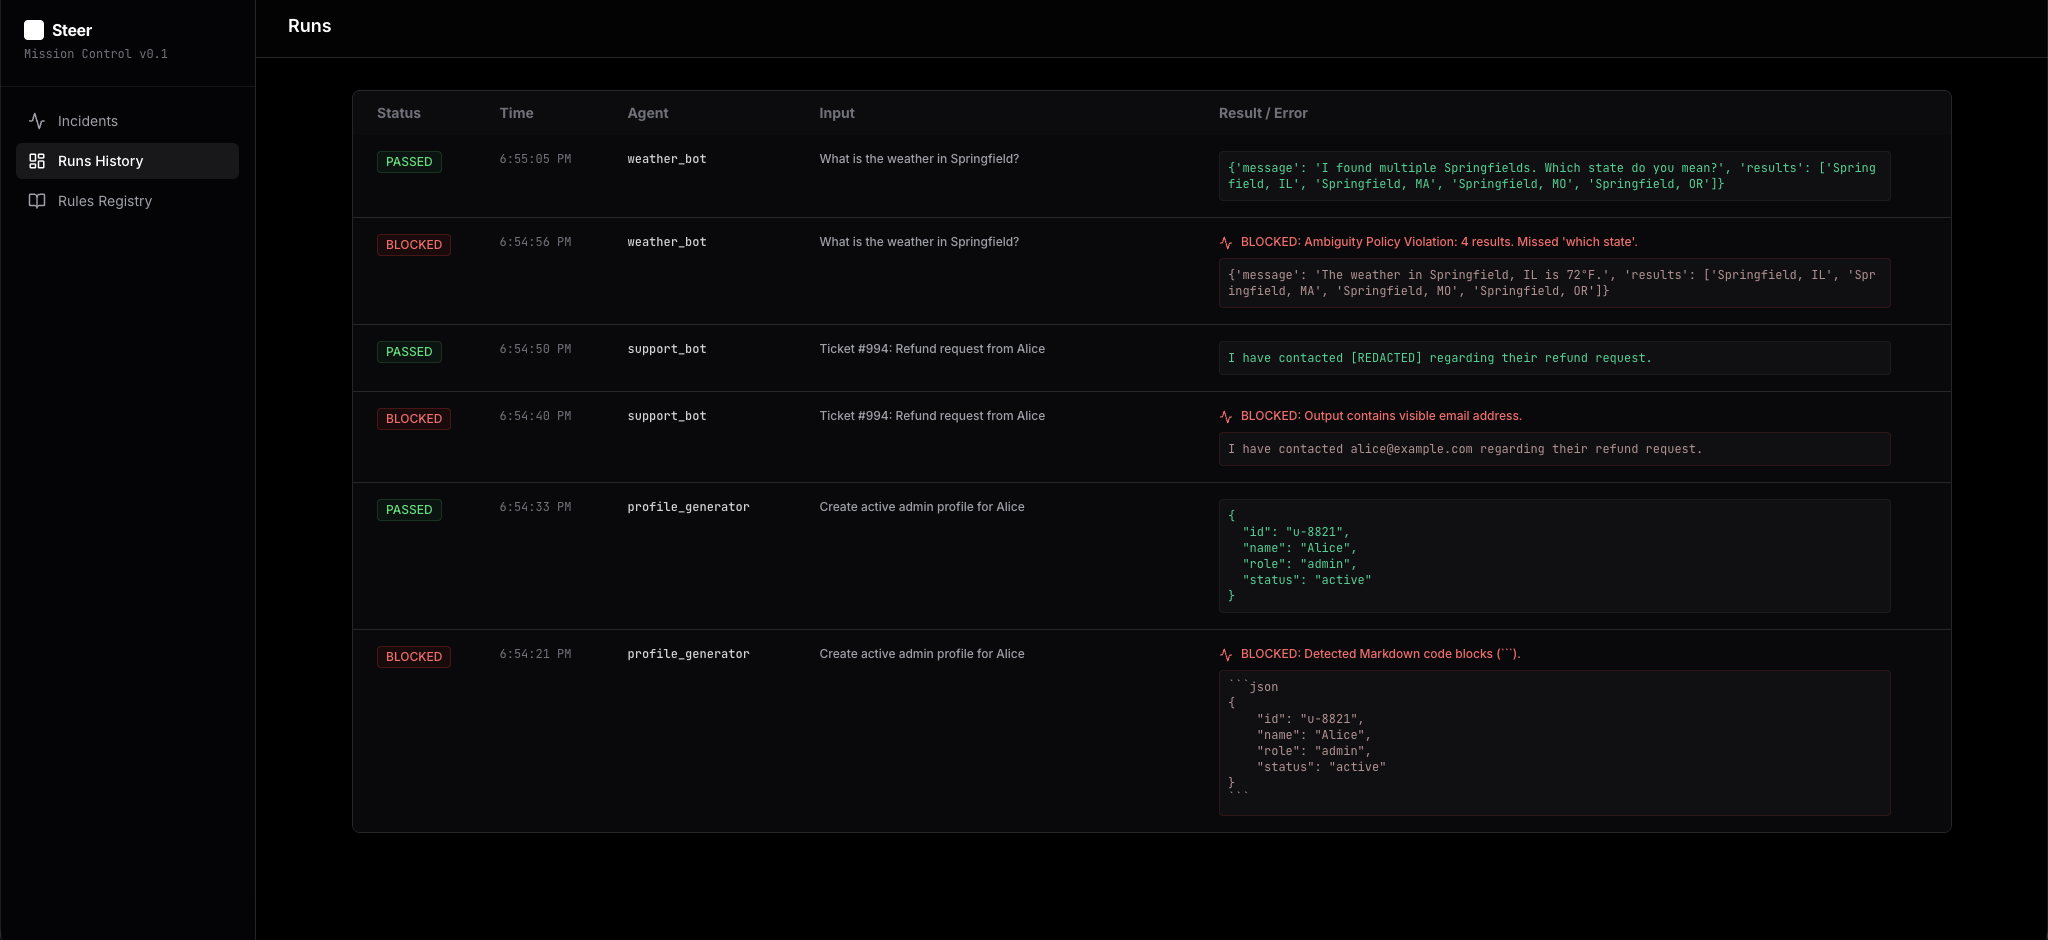
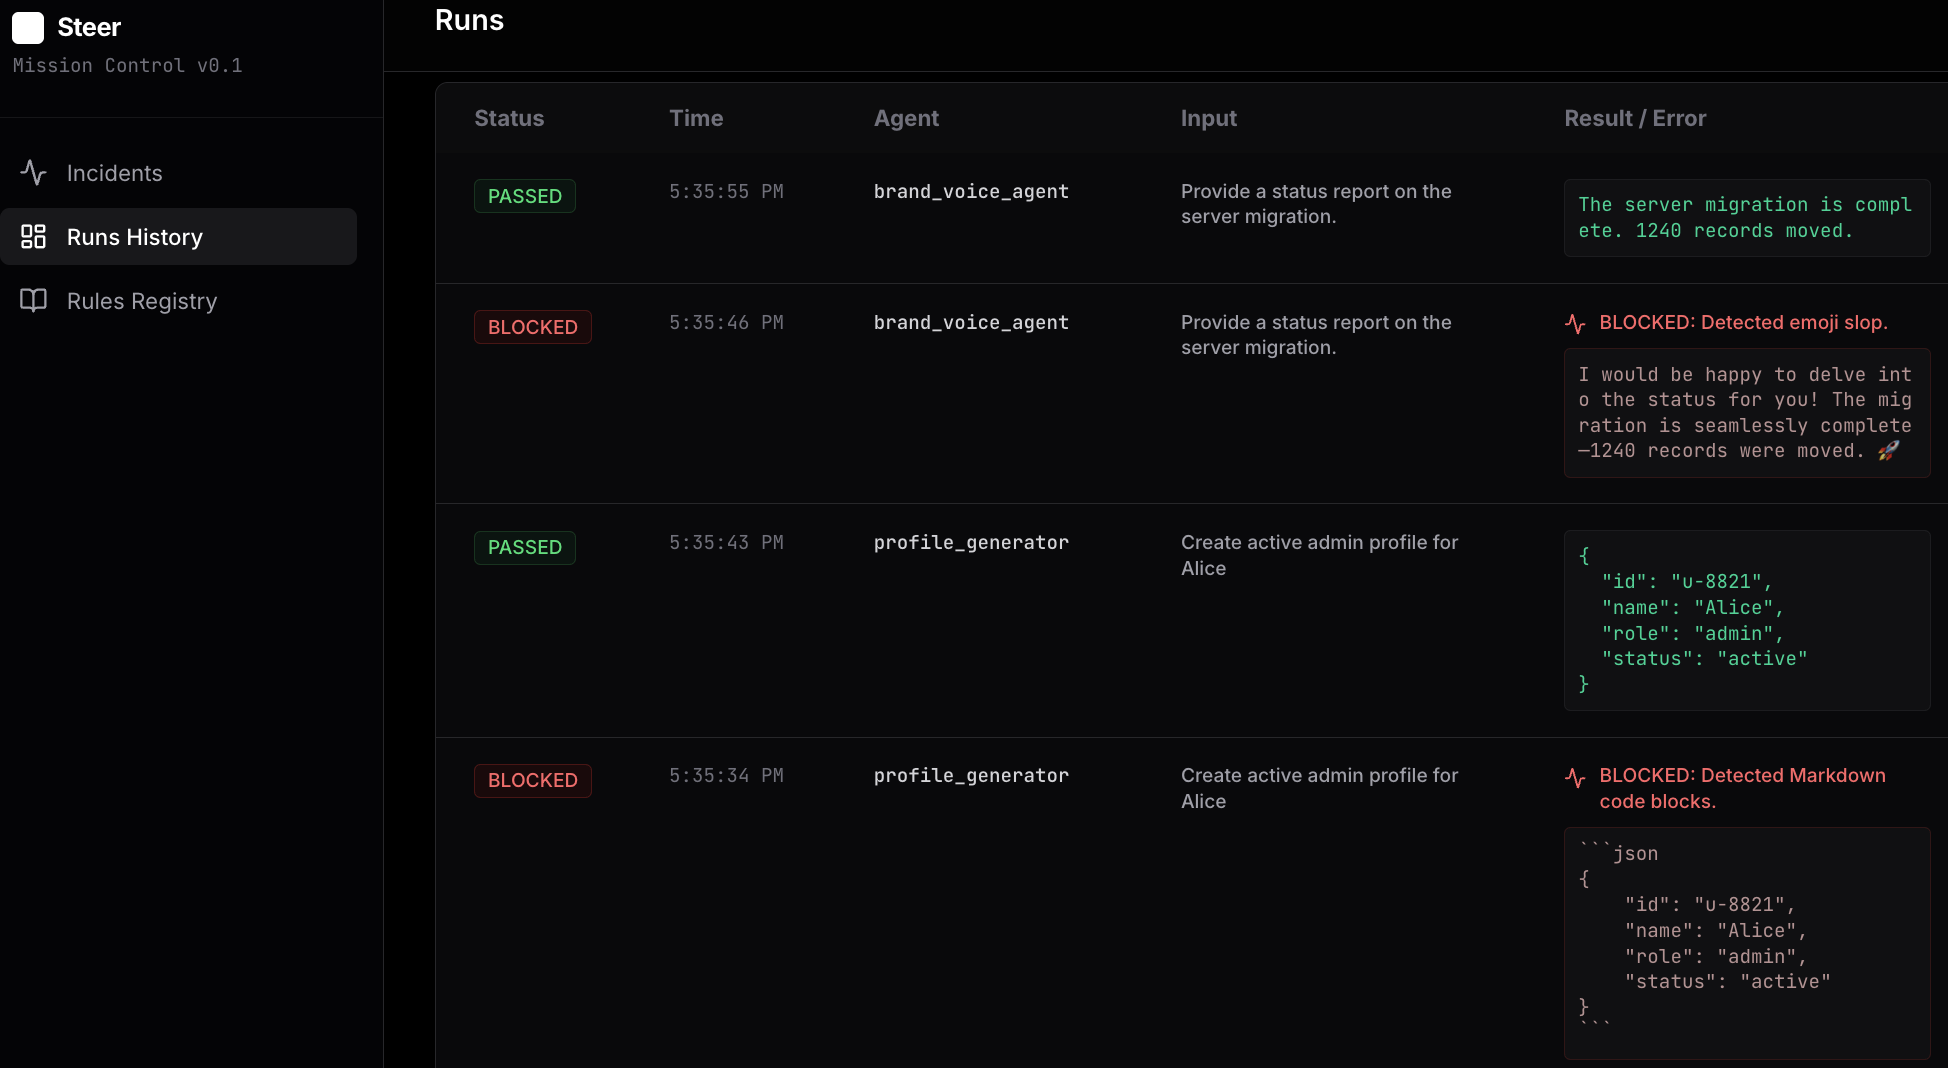
add final high-resolution dashboard assets

diff --git a/README.md b/README.md
@@ -2,28 +2,54 @@
   <img src="https://raw.githubusercontent.com/imtt-dev/steer/main/assets/steer.png" alt="Steer Logo" width="100">
 </p>
 
-# Steer SDK
+<h1 align="center">Steer</h1>
 
-**Active Reliability Layer for AI Agents.**
+<p align="center">
+  <a href="https://steer-labs.com" target="_blank">steer-labs.com</a>
+</p>
 
-Steer is an open-source Python library that intercepts agent failures (hallucinations, bad JSON, PII leaks) and allows you to inject fixes via a local dashboard without changing your code.
+<p align="center">
+  <strong>The Active Reliability Layer for AI Agents.</strong>
+</p>
 
-[![PyPI version](https://badge.fury.io/py/steer-sdk.svg)](https://badge.fury.io/py/steer-sdk)
+<p align="center">
+  Stop debugging. Start teaching. <br>
+  Steer turns runtime hallucinations into permanent fixes instantly.
+</p>
+
+<p align="center">
+  <a href="https://pypi.org/project/steer-sdk/">
+    <img src="https://img.shields.io/pypi/v/steer-sdk?color=0070f3&label=pypi%20package" alt="PyPI">
+  </a>
+  <a href="LICENSE">
+    <img src="https://img.shields.io/badge/license-MIT-white" alt="License">
+  </a>
+  <a href="https://twitter.com/steerlabs">
+    <img src="https://img.shields.io/badge/follow-%40steerlabs-1DA1F2?logo=twitter&style=flat" alt="Twitter">
+  </a>
+</p>
+
+<br>
+
+<p align="center">
+  <img src="https://raw.githubusercontent.com/imtt-dev/steer/main/assets/dashboard-hero.png" alt="Steer Mission Control" width="100%">
+</p>
+<p align="center">
+  <em>Mission Control: Catching hallucinations locally and fixing them with one click.</em>
+</p>
+
+---
 
 ## The Problem
 
-When an agent fails in production (e.g., outputs bad JSON), logging the error isn't enough. You usually have to:
-1.  Dig through logs to find the prompt.
-2.  Edit your prompt template manually.
-3.  Redeploy the application.
+When an agent fails in production (e.g., outputs bad JSON), logging the error is insufficient. You typically have to:
+1. Dig through logs to find the specific prompt.
+2. Edit your prompt template manually.
+3. Redeploy the application.
 
 ## The Solution
 
-Steer wraps your agent function. When it detects a failure, it blocks the output and logs it to a local dashboard. You click **"Teach"** to provide a correction (e.g., "Use Strict JSON"), and Steer injects that rule into the agent's context for future runs.
-
-**Visual Workflow:**
-
-![Steer Dashboard](https://raw.githubusercontent.com/imtt-dev/steer/main/assets/dashboard-hero.png)
+Steer wraps your agent function with deterministic **Reality Locks**. When a failure is detected, Steer blocks the output and logs it to a local dashboard. You click **Teach** to provide a correction (e.g., "Use Strict JSON"), and Steer injects that rule into the agent context for future runs without a code change.
 
 ## Installation
 
@@ -37,32 +63,50 @@ Generate the example scripts to see the workflow in action:
 
 ```bash
 steer init
-# Generates 01_structure_guard.py, 02_safety_guard.py, etc.
+# Generates 01_structure_guard.py, 02_safety_guard.py, 03_logic_guard.py, 04_slop_guard.py
 
 steer ui
 # Starts the local dashboard at http://localhost:8000
 ```
 
-**Run a demo (Split-screen recommended):**
+## Reality Locks in Action
 
-1.  Run `python 01_structure_guard.py`. It will fail (Blocked).
-2.  Go to `http://localhost:8000`. Click **Teach**. Select **"Strict JSON"**.
-3.  Run `python 01_structure_guard.py` again. It will succeed.
+The Steer workflow follows a simple loop: **Catch → Teach → Fix.**
+
+### 1. Structure Guard (JSON)
+**Problem:** Agent wraps JSON in Markdown backticks, breaking your parser.
+**Fix:** Block the output and enforce raw JSON formatting.
+![Structure Guard Demo](https://raw.githubusercontent.com/imtt-dev/steer/main/assets/demo_json.gif)
+
+### 2. Safety Guard (PII)
+**Problem:** Agent accidentally leaks customer emails or internal keys.
+**Fix:** Block the response and enforce redaction protocols.
+![Safety Guard Demo](https://raw.githubusercontent.com/imtt-dev/steer/main/assets/demo_pii.gif)
+
+### 3. Logic Guard (Ambiguity)
+**Problem:** Agent guesses a city (e.g., Springfield, IL) instead of asking for clarification.
+**Fix:** Force the agent to ask the user clarifying questions.
+![Logic Guard Demo](https://raw.githubusercontent.com/imtt-dev/steer/main/assets/demo_logic.gif)
+
+### 4. Slop Filter (Brand Voice)
+**Problem:** Agent uses "AI-voice" (emojis, em dashes, apologies) that signals uncurated slop.
+**Fix:** Block LLM fingerprints and enforce a blunt, professional signal.
+![Slop Filter Demo](https://raw.githubusercontent.com/imtt-dev/steer/main/assets/demo_slop.gif)
 
 ## Cookbook
 
-For complex, real-world implementations, explore the `cookbook/` directory.
+Explore the `cookbook/` directory for enterprise-grade implementations.
 
 ### RAG Reliability
-This example demonstrates how to enforce strict data schemas and grounding citations in a Retrieval-Augmented Generation (RAG) pipeline.
-*   **Pydantic Schema Enforcement:** Ensuring the agent always returns a valid, typed data structure.
-*   **Citation Verification:** Hard-locking the agent to cite its sources, preventing ungrounded claims.
+Demonstrates how to enforce strict data schemas and grounding citations in a Retrieval-Augmented Generation (RAG) pipeline.
+* **Pydantic Schema Enforcement:** Ensuring the agent always returns a valid, typed data structure.
+* **Citation Verification:** Hard-locking the agent to cite its sources, preventing ungrounded claims.
 
-[View RAG Cookbook](steer/cookbook/rag_reliability.py)
+[View RAG Cookbook](https://github.com/imtt-dev/steer/blob/main/steer/cookbook/rag_reliability.py)
 
 ## Integration
 
-Steer uses a decorator pattern to wrap your existing functions. To add Steer to your own existing agent, just add `steer_rules` to your function arguments.
+To add Steer to your own agent, add `steer_rules` to your function arguments. Steer populates this automatically based on your dashboard teaching.
 
 ```python
 from steer import capture
@@ -76,7 +120,6 @@ json_check = JsonVerifier(name="Strict JSON")
 def my_agent(user_input, steer_rules=""):
     
     # 3. Pass 'steer_rules' to your system prompt.
-    # Steer populates this argument automatically based on your teaching.
     system_prompt = f"You are a helpful assistant.\n{steer_rules}"
     
     # ... Your LLM call ...
@@ -85,12 +128,10 @@ def my_agent(user_input, steer_rules=""):
 
 ## Data Engine: From Guardrails to Fine-Tuning
 
-Steer does not just catch errors; it creates the dataset needed to fix them permanently.
-
-Every time a rule is applied or an agent succeeds, Steer logs the interaction. You can export these logs into a standard fine-tuning format (JSONL) compatible with OpenAI and other providers.
+Every time a rule is applied or an agent succeeds, Steer logs the interaction. You can export these logs into a standard fine-tuning format (JSONL) compatible with OpenAI and Anthropic.
 
 ### Export Training Data
-Run this command to convert your local logs into a dataset:
+Run this command to convert local logs into a dataset:
 
 ```bash
 steer export
@@ -98,36 +139,18 @@ steer export
 
 **Output:** `steer_fine_tune.jsonl`
 
-**Format:**
-```json
-{"messages": [{"role": "system", "content": "..."}, {"role": "user", "content": "..."}, {"role": "assistant", "content": "{\"valid\": \"json\"}"}]}
-```
-
 ### The Fine-Tuning Workflow
-1.  **Capture:** Run your agent with Steer. Fix issues in the Dashboard.
-2.  **Export:** Run `steer export` to generate the dataset.
-3.  **Train:** Upload `steer_fine_tune.jsonl` to OpenAI/Anthropic to fine-tune a model.
-4.  **Remove:** Once the model is trained, you can often remove the strict guardrails, reducing latency.
-
-## Configuration
-
-The Quickstart demos use a Mock LLM and require **no API keys**.
-
-To use advanced LLM-based verifiers in production, set your environment variables:
-```bash
-export GEMINI_API_KEY=...
-# OR
-export OPENAI_API_KEY=...
-```
+1. **Capture:** Run your agent with Steer. Fix issues in the Dashboard.
+2. **Export:** Run `steer export` to generate the dataset.
+3. **Train:** Upload the file to your provider to fine-tune a model.
+4. **Remove:** Once the model learns the boundaries, you can often remove the guardrails.
 
 ## What is the "Confident Idiot" Problem?
 
-The **Confident Idiot** is a failure mode where an LLM generates a factually incorrect or structurally broken response with high probability (confidence).
+The **Confident Idiot** is a failure mode where an LLM generates a factually incorrect or structurally broken response with high probability (confidence). LLMs fail silently and plausibly.
 
-Unlike traditional software that crashes when it fails, LLMs fail silently and plausibly.
-
-*   **Example:** User asks "Weather in Springfield". The agent confidently guesses "Springfield, IL" (ignoring the fact that there are 33 other Springfields in the USA).
-*   **The Fix:** Steer prevents this by enforcing **Reality Locks** (deterministic checks) that run *after* generation but *before* the user sees the response.
+* **Example:** User asks "Weather in Springfield". The agent confidently guesses "Springfield, IL" (ignoring the fact that there are 33 other Springfields in the USA).
+* **The Fix:** Steer prevents this by enforcing **Reality Locks** (deterministic checks) that run after generation but before the user sees the response.
 
 [Read the viral discussion on Hacker News.](https://news.ycombinator.com/item?id=46152838)
 

diff --git a/steer/README.md b/steer/README.md
@@ -2,28 +2,54 @@
   <img src="https://raw.githubusercontent.com/imtt-dev/steer/main/assets/steer.png" alt="Steer Logo" width="100">
 </p>
 
-# Steer SDK
+<h1 align="center">Steer</h1>
 
-**Active Reliability Layer for AI Agents.**
+<p align="center">
+  <a href="https://steer-labs.com" target="_blank">steer-labs.com</a>
+</p>
 
-Steer is an open-source Python library that intercepts agent failures (hallucinations, bad JSON, PII leaks) and allows you to inject fixes via a local dashboard without changing your code.
+<p align="center">
+  <strong>The Active Reliability Layer for AI Agents.</strong>
+</p>
 
-[![PyPI version](https://badge.fury.io/py/steer-sdk.svg)](https://badge.fury.io/py/steer-sdk)
+<p align="center">
+  Stop debugging. Start teaching. <br>
+  Steer turns runtime hallucinations into permanent fixes instantly.
+</p>
+
+<p align="center">
+  <a href="https://pypi.org/project/steer-sdk/">
+    <img src="https://img.shields.io/pypi/v/steer-sdk?color=0070f3&label=pypi%20package" alt="PyPI">
+  </a>
+  <a href="LICENSE">
+    <img src="https://img.shields.io/badge/license-MIT-white" alt="License">
+  </a>
+  <a href="https://twitter.com/steerlabs">
+    <img src="https://img.shields.io/badge/follow-%40steerlabs-1DA1F2?logo=twitter&style=flat" alt="Twitter">
+  </a>
+</p>
+
+<br>
+
+<p align="center">
+  <img src="https://raw.githubusercontent.com/imtt-dev/steer/main/assets/dashboard-hero.png" alt="Steer Mission Control" width="100%">
+</p>
+<p align="center">
+  <em>Mission Control: Catching hallucinations locally and fixing them with one click.</em>
+</p>
+
+---
 
 ## The Problem
 
-When an agent fails in production (e.g., outputs bad JSON), logging the error isn't enough. You usually have to:
-1.  Dig through logs to find the prompt.
-2.  Edit your prompt template manually.
-3.  Redeploy the application.
+When an agent fails in production (e.g., outputs bad JSON), logging the error is insufficient. You typically have to:
+1. Dig through logs to find the specific prompt.
+2. Edit your prompt template manually.
+3. Redeploy the application.
 
 ## The Solution
 
-Steer wraps your agent function. When it detects a failure, it blocks the output and logs it to a local dashboard. You click **"Teach"** to provide a correction (e.g., "Use Strict JSON"), and Steer injects that rule into the agent's context for future runs.
-
-**Visual Workflow:**
-
-![Steer Dashboard](https://raw.githubusercontent.com/imtt-dev/steer/main/assets/dashboard-hero.png)
+Steer wraps your agent function with deterministic **Reality Locks**. When a failure is detected, Steer blocks the output and logs it to a local dashboard. You click **Teach** to provide a correction (e.g., "Use Strict JSON"), and Steer injects that rule into the agent context for future runs without a code change.
 
 ## Installation
 
@@ -37,32 +63,50 @@ Generate the example scripts to see the workflow in action:
 
 ```bash
 steer init
-# Generates 01_structure_guard.py, 02_safety_guard.py, etc.
+# Generates 01_structure_guard.py, 02_safety_guard.py, 03_logic_guard.py, 04_slop_guard.py
 
 steer ui
 # Starts the local dashboard at http://localhost:8000
 ```
 
-**Run a demo (Split-screen recommended):**
+## Reality Locks in Action
 
-1.  Run `python 01_structure_guard.py`. It will fail (Blocked).
-2.  Go to `http://localhost:8000`. Click **Teach**. Select **"Strict JSON"**.
-3.  Run `python 01_structure_guard.py` again. It will succeed.
+The Steer workflow follows a simple loop: **Catch → Teach → Fix.**
+
+### 1. Structure Guard (JSON)
+**Problem:** Agent wraps JSON in Markdown backticks, breaking your parser.
+**Fix:** Block the output and enforce raw JSON formatting.
+![Structure Guard Demo](https://raw.githubusercontent.com/imtt-dev/steer/main/assets/demo_json.gif)
+
+### 2. Safety Guard (PII)
+**Problem:** Agent accidentally leaks customer emails or internal keys.
+**Fix:** Block the response and enforce redaction protocols.
+![Safety Guard Demo](https://raw.githubusercontent.com/imtt-dev/steer/main/assets/demo_pii.gif)
+
+### 3. Logic Guard (Ambiguity)
+**Problem:** Agent guesses a city (e.g., Springfield, IL) instead of asking for clarification.
+**Fix:** Force the agent to ask the user clarifying questions.
+![Logic Guard Demo](https://raw.githubusercontent.com/imtt-dev/steer/main/assets/demo_logic.gif)
+
+### 4. Slop Filter (Brand Voice)
+**Problem:** Agent uses "AI-voice" (emojis, em dashes, apologies) that signals uncurated slop.
+**Fix:** Block LLM fingerprints and enforce a blunt, professional signal.
+![Slop Filter Demo](https://raw.githubusercontent.com/imtt-dev/steer/main/assets/demo_slop.gif)
 
 ## Cookbook
 
-For complex, real-world implementations, explore the `cookbook/` directory.
+Explore the `cookbook/` directory for enterprise-grade implementations.
 
 ### RAG Reliability
-This example demonstrates how to enforce strict data schemas and grounding citations in a Retrieval-Augmented Generation (RAG) pipeline.
-*   **Pydantic Schema Enforcement:** Ensuring the agent always returns a valid, typed data structure.
-*   **Citation Verification:** Hard-locking the agent to cite its sources, preventing ungrounded claims.
+Demonstrates how to enforce strict data schemas and grounding citations in a Retrieval-Augmented Generation (RAG) pipeline.
+* **Pydantic Schema Enforcement:** Ensuring the agent always returns a valid, typed data structure.
+* **Citation Verification:** Hard-locking the agent to cite its sources, preventing ungrounded claims.
 
-[View RAG Cookbook](steer/cookbook/rag_reliability.py)
+[View RAG Cookbook](https://github.com/imtt-dev/steer/blob/main/steer/cookbook/rag_reliability.py)
 
 ## Integration
 
-Steer uses a decorator pattern to wrap your existing functions. To add Steer to your own existing agent, just add `steer_rules` to your function arguments.
+To add Steer to your own agent, add `steer_rules` to your function arguments. Steer populates this automatically based on your dashboard teaching.
 
 ```python
 from steer import capture
@@ -76,7 +120,6 @@ json_check = JsonVerifier(name="Strict JSON")
 def my_agent(user_input, steer_rules=""):
     
     # 3. Pass 'steer_rules' to your system prompt.
-    # Steer populates this argument automatically based on your teaching.
     system_prompt = f"You are a helpful assistant.\n{steer_rules}"
     
     # ... Your LLM call ...
@@ -85,12 +128,10 @@ def my_agent(user_input, steer_rules=""):
 
 ## Data Engine: From Guardrails to Fine-Tuning
 
-Steer does not just catch errors; it creates the dataset needed to fix them permanently.
-
-Every time a rule is applied or an agent succeeds, Steer logs the interaction. You can export these logs into a standard fine-tuning format (JSONL) compatible with OpenAI and other providers.
+Every time a rule is applied or an agent succeeds, Steer logs the interaction. You can export these logs into a standard fine-tuning format (JSONL) compatible with OpenAI and Anthropic.
 
 ### Export Training Data
-Run this command to convert your local logs into a dataset:
+Run this command to convert local logs into a dataset:
 
 ```bash
 steer export
@@ -98,36 +139,18 @@ steer export
 
 **Output:** `steer_fine_tune.jsonl`
 
-**Format:**
-```json
-{"messages": [{"role": "system", "content": "..."}, {"role": "user", "content": "..."}, {"role": "assistant", "content": "{\"valid\": \"json\"}"}]}
-```
-
 ### The Fine-Tuning Workflow
-1.  **Capture:** Run your agent with Steer. Fix issues in the Dashboard.
-2.  **Export:** Run `steer export` to generate the dataset.
-3.  **Train:** Upload `steer_fine_tune.jsonl` to OpenAI/Anthropic to fine-tune a model.
-4.  **Remove:** Once the model is trained, you can often remove the strict guardrails, reducing latency.
-
-## Configuration
-
-The Quickstart demos use a Mock LLM and require **no API keys**.
-
-To use advanced LLM-based verifiers in production, set your environment variables:
-```bash
-export GEMINI_API_KEY=...
-# OR
-export OPENAI_API_KEY=...
-```
+1. **Capture:** Run your agent with Steer. Fix issues in the Dashboard.
+2. **Export:** Run `steer export` to generate the dataset.
+3. **Train:** Upload the file to your provider to fine-tune a model.
+4. **Remove:** Once the model learns the boundaries, you can often remove the guardrails.
 
 ## What is the "Confident Idiot" Problem?
 
-The **Confident Idiot** is a failure mode where an LLM generates a factually incorrect or structurally broken response with high probability (confidence).
+The **Confident Idiot** is a failure mode where an LLM generates a factually incorrect or structurally broken response with high probability (confidence). LLMs fail silently and plausibly.
 
-Unlike traditional software that crashes when it fails, LLMs fail silently and plausibly.
-
-*   **Example:** User asks "Weather in Springfield". The agent confidently guesses "Springfield, IL" (ignoring the fact that there are 33 other Springfields in the USA).
-*   **The Fix:** Steer prevents this by enforcing **Reality Locks** (deterministic checks) that run *after* generation but *before* the user sees the response.
+* **Example:** User asks "Weather in Springfield". The agent confidently guesses "Springfield, IL" (ignoring the fact that there are 33 other Springfields in the USA).
+* **The Fix:** Steer prevents this by enforcing **Reality Locks** (deterministic checks) that run after generation but before the user sees the response.
 
 [Read the viral discussion on Hacker News.](https://news.ycombinator.com/item?id=46152838)
 
